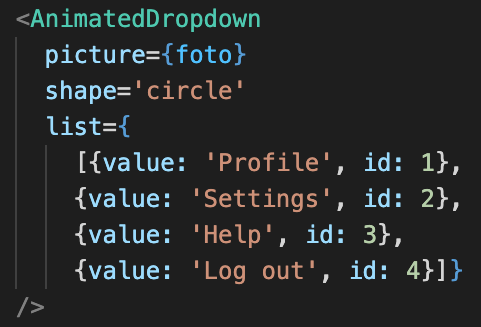
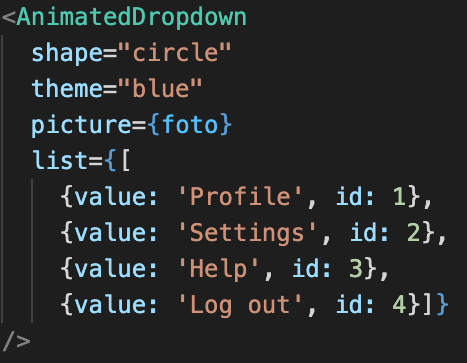
Update themes, add gifs

diff --git a/src/components/AnimatedDropdown/AnimatedDropdown.js b/src/components/AnimatedDropdown/AnimatedDropdown.js
@@ -16,9 +16,14 @@ const AnimatedDropdown = (props) => {
     setShowList(false)
   }
 
+  let theme = "black"
+  if(props.theme) {
+    theme = props.theme
+  }
+
   let classes = ["AnimatedDropdown"]
   if(props.shape){classes.push(`AnimatedDropdown--${props.shape}`)}
-  if(props.theme){classes.push(`AnimatedDropdown--${props.theme}`)}
+  if(props.theme){classes.push(`AnimatedDropdown--${theme}`)}
 
   let shape = ""
   if(props.shape === 'rectangle'){
@@ -43,9 +48,9 @@ const AnimatedDropdown = (props) => {
 
   let arrow = null
   if(props.shape === 'circle' && showList) {
-    arrow = <div className="AnimatedDropdown__arrow AnimatedDropdown__arrow--circle"/>
+    arrow = <div className={"AnimatedDropdown__arrow AnimatedDropdown__arrow--circle AnimatedDropdown__arrow--circle--" + theme}/>
   } else if(props.shape === 'rectangle' && showList){ 
-    arrow = <div className="AnimatedDropdown__arrow AnimatedDropdown__arrow--rectangle"/>
+    arrow = <div className={"AnimatedDropdown__arrow AnimatedDropdown__arrow--" + theme}/>
   } else {
     arrow = null
   }
@@ -53,11 +58,6 @@ const AnimatedDropdown = (props) => {
   let headerPosition = ''
   if(props.headerPosition === "right") {
     headerPosition = '--right'
-  }
-
-  let theme = "black"
-  if(props.theme) {
-    theme = props.theme
   }
 
   return (

diff --git a/src/App.js b/src/App.js
@@ -9,7 +9,7 @@ function App() {
       <div style={{display: 'inline-block', marginLeft: '100px'}}>
       <AnimatedDropdown 
         shape="rectangle"
-        theme="green"
+        theme="blue"
         title="MENU"
         list={[{value: 'Profile', id: 1}, {value: 'Settings', id: 2}, {value: 'Help', id: 3}, {value: 'Log out', id: 4}]}
       />
@@ -17,7 +17,7 @@ function App() {
       <div style={{display: 'inline-block', marginLeft: '370px' }}>
       <AnimatedDropdown 
         shape="rectangle"
-        theme="green"
+        theme="blue"
         headerPosition="right"
         title="MENU"
         list={[
@@ -30,7 +30,7 @@ function App() {
       <div style={{float: 'left', marginLeft: '750px', marginTop: '-65px' }}>
       <AnimatedDropdown 
         shape="circle"
-        theme="green"
+        theme="blue"
         picture={foto}
         list={[
           {value: 'Profile', id: 1},

diff --git a/src/components/AnimatedDropdown/AnimatedDropdown.scss b/src/components/AnimatedDropdown/AnimatedDropdown.scss
@@ -57,6 +57,18 @@
     display: inline-block;
     position: relative;
     bottom: 5px;
+    &--blue{
+      border-top-color: rgb(132, 144, 235);
+    }
+    &--red{
+      border-top-color: rgb(235, 132, 132);
+    }
+    &--black{
+      border-top-color: #ddd;
+    }
+    &--green{
+      border-top-color: rgb(81, 194, 81);
+    }
 
     &--circle {
       content: "";
@@ -67,7 +79,18 @@
       border-top: 15px solid transparent;
       border-bottom: 15px solid #ddd;
       animation: slide-in-blurred 0.6s cubic-bezier(0.175, 0.885, 0.320, 1.275) both;
-
+      &--blue{
+        border-bottom-color: rgb(132, 144, 235);
+      }
+      &--red{
+        border-bottom-color: rgb(235, 132, 132);
+      }
+      &--black{
+        border-bottom-color: #ddd;
+      }
+      &--green{
+        border-bottom-color: rgb(81, 194, 81);
+      }
     }
   }
   &__header {

diff --git a/README.md b/README.md
@@ -16,8 +16,6 @@
 
 #### MANDATORY PROPS:
 - ```list``` this prop takes an array of objects eg.```[{value: 'first item', id: 1}, ...]```
-![demo](https://github.com/DawidSzpener/AnimatedDropdown/blob/main/src/assets/images/list.png)
-
 - ```shape='rectangle'``` or ```shape='circle'``` self explanatory
 
 #### Usable props change depending on ```shape``` prop
